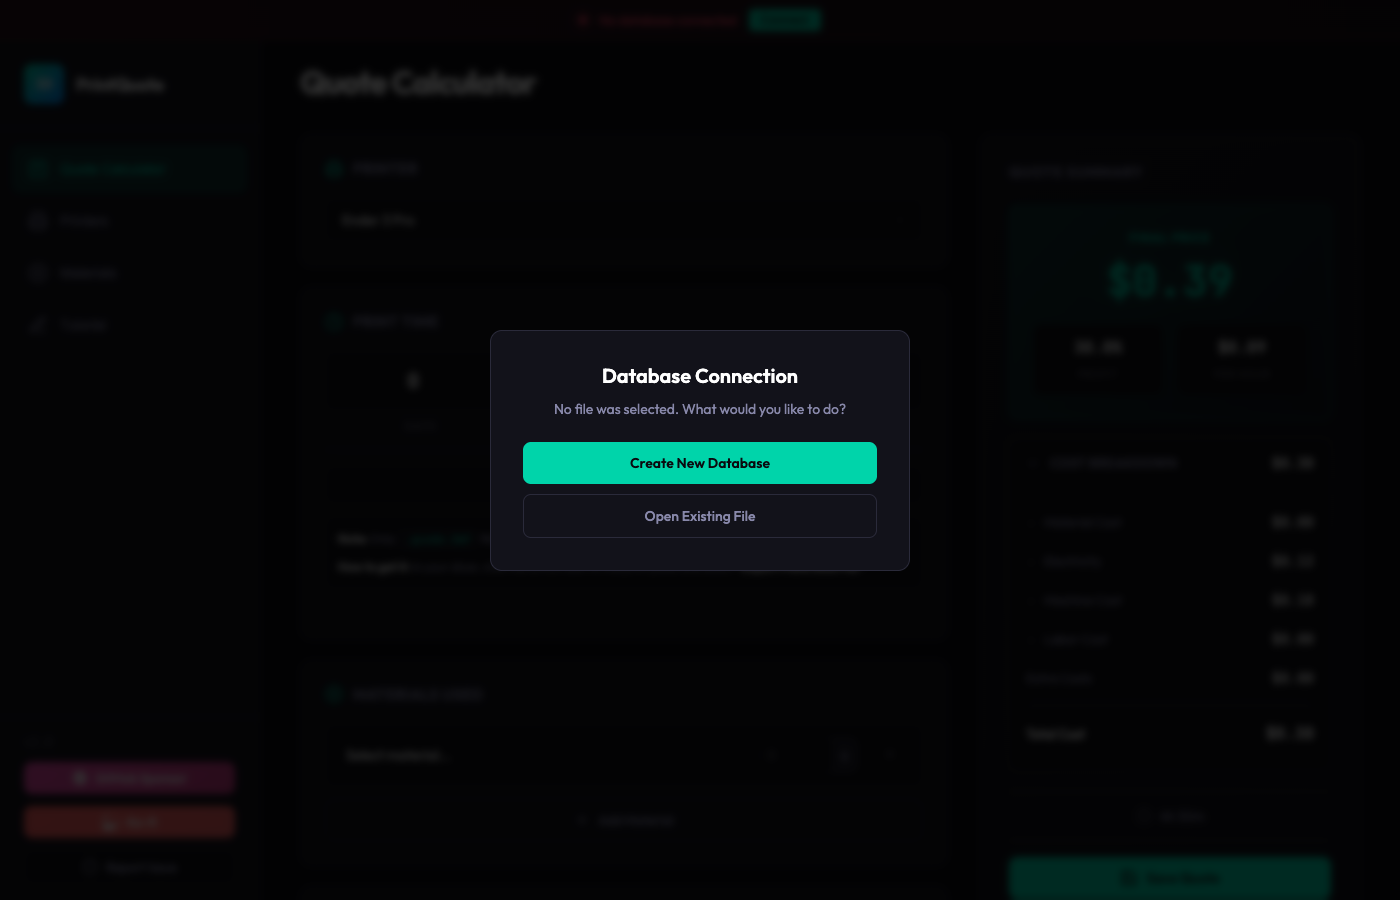
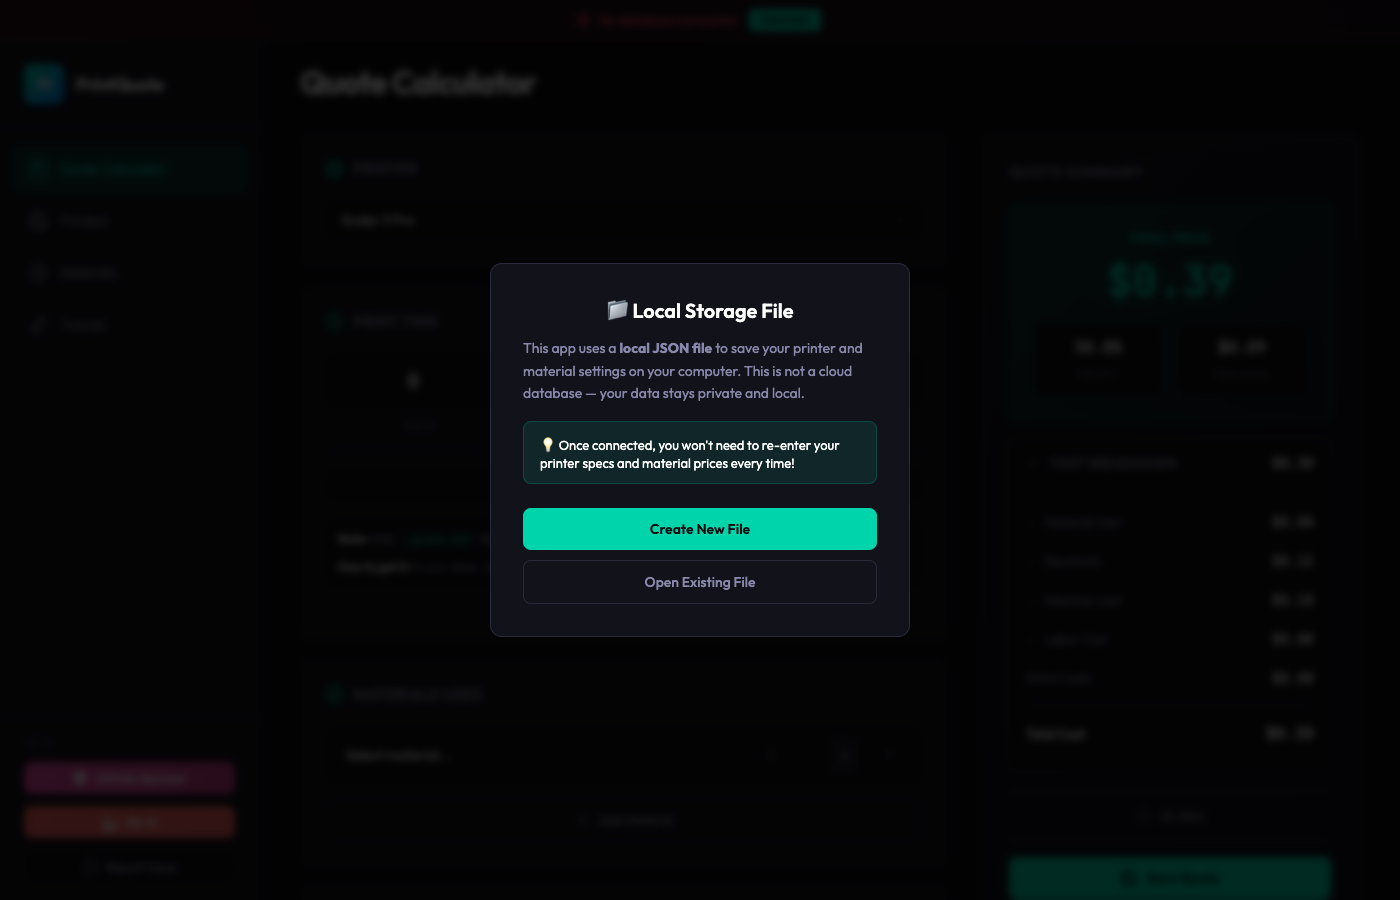
Improve database modal explanation
- Rename 'Database Connection' to 'Local Storage File'
- Clarify it's a local JSON file, not a cloud database
- Explain that data stays private on user's computer
- Highlight benefit: no need to re-enter printer/material info
- Update button text to 'Create New File' / 'Open Existing File'
- Add styled description and benefit text in modal
- Update tutorial page with matching explanation
- Update screenshots

Changed region(s): [[0.3686, 0.3111, 0.645, 0.6533]]

diff --git a/index.html b/index.html
@@ -448,28 +448,28 @@
                         <div class="tutorial-card-body">
                             <div class="tutorial-grid">
                                 <div class="tutorial-text">
-                                    <p>When you first open the app, you'll see a connection modal. Choose one option:</p>
+                                    <p>When you first open the app, you'll see a connection modal. This is <strong>not a cloud database</strong> — it's just a local JSON file on your computer!</p>
                                     <div class="tutorial-options">
                                         <div class="tutorial-option">
                                             <div class="option-icon primary">+</div>
                                             <div class="option-content">
-                                                <strong>Create New Database</strong>
-                                                <span>Start fresh with a new file</span>
+                                                <strong>Create New File</strong>
+                                                <span>Start fresh with a new local file</span>
                                             </div>
                                         </div>
                                         <div class="tutorial-option">
                                             <div class="option-icon secondary">📂</div>
                                             <div class="option-content">
                                                 <strong>Open Existing File</strong>
-                                                <span>Load your saved data</span>
+                                                <span>Load your previously saved settings</span>
                                             </div>
                                         </div>
                                     </div>
                                     <div class="tutorial-callout info">
                                         <div class="callout-icon">💡</div>
                                         <div class="callout-content">
-                                            <strong>What's the database file?</strong>
-                                            <p>A simple JSON file on your computer that stores your printer and material settings. Your data is saved automatically so you don't have to re-enter it every time!</p>
+                                            <strong>Why do I need this file?</strong>
+                                            <p>It saves your printer specs and material prices locally, so you don't have to type them every time you use the app. Your data stays private on your computer!</p>
                                         </div>
                                     </div>
                                 </div>

diff --git a/take-screenshots.js b/take-screenshots.js
@@ -101,10 +101,11 @@ async function takeScreenshots() {
             modal.id = 'db-modal';
             modal.innerHTML = `
                 <div class="modal-content">
-                    <h3>Database Connection</h3>
-                    <p>No file was selected. What would you like to do?</p>
+                    <h3>📁 Local Storage File</h3>
+                    <p class="modal-description">This app uses a <strong>local JSON file</strong> to save your printer and material settings on your computer. This is not a cloud database — your data stays private and local.</p>
+                    <p class="modal-benefit">💡 Once connected, you won't need to re-enter your printer specs and material prices every time!</p>
                     <div class="modal-buttons">
-                        <button class="btn-primary" id="create-new-db-btn">Create New Database</button>
+                        <button class="btn-primary" id="create-new-db-btn">Create New File</button>
                         <button class="btn-secondary" id="open-existing-db-btn">Open Existing File</button>
                     </div>
                 </div>

diff --git a/app.js b/app.js
@@ -137,10 +137,11 @@ function showCreateDatabaseModal() {
     modal.id = 'db-modal';
     modal.innerHTML = `
         <div class="modal-content">
-            <h3>Database Connection</h3>
-            <p>No file was selected. What would you like to do?</p>
+            <h3>📁 Local Storage File</h3>
+            <p class="modal-description">This app uses a <strong>local JSON file</strong> to save your printer and material settings on your computer. This is not a cloud database — your data stays private and local.</p>
+            <p class="modal-benefit">💡 Once connected, you won't need to re-enter your printer specs and material prices every time!</p>
             <div class="modal-buttons">
-                <button class="btn-primary" id="create-new-db-btn">Create New Database</button>
+                <button class="btn-primary" id="create-new-db-btn">Create New File</button>
                 <button class="btn-secondary" id="open-existing-db-btn">Open Existing File</button>
             </div>
         </div>

diff --git a/styles.css b/styles.css
@@ -1496,6 +1496,21 @@ select option {
 .modal-content p {
     color: var(--text-secondary);
     font-size: 14px;
+    margin-bottom: 16px;
+    text-align: left;
+}
+
+.modal-content .modal-description {
+    line-height: 1.6;
+}
+
+.modal-content .modal-benefit {
+    background: rgba(0, 212, 170, 0.1);
+    border: 1px solid rgba(0, 212, 170, 0.2);
+    border-radius: var(--radius-sm);
+    padding: 12px 16px;
+    font-size: 13px;
+    color: var(--text-primary);
     margin-bottom: 24px;
 }
 
